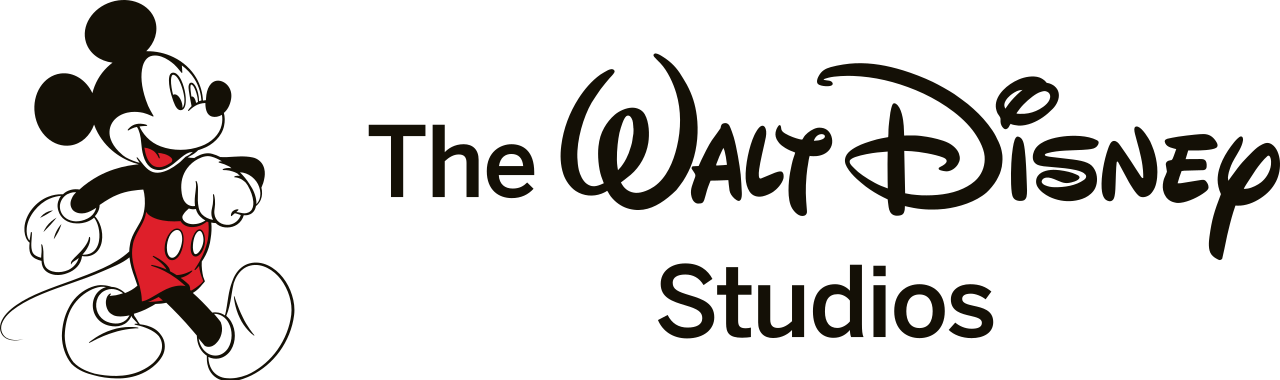
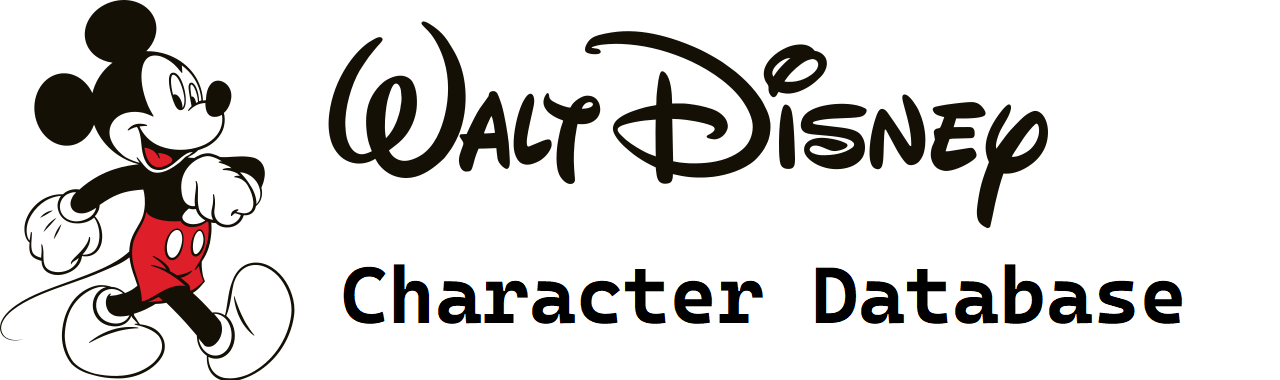
add pagination and delete all favorites

Changed region(s): [[0.25, 0.0579, 1.0, 0.6947], [0.25, 0.6947, 0.9375, 0.8974]]

diff --git a/src/js/main.js b/src/js/main.js
@@ -4,6 +4,12 @@ const favsList = document.querySelector('.js_favsList');
 const searchBtn = document.querySelector('.js_sbtn');
 const favBtn = document.querySelector('.js_fbtn');
 const deleteFav = document.querySelector('.js_delete');
+const favSection = document.querySelector('.favorites');
+const backBtn = document.querySelector('.js_back');
+const pagesInfo = document.querySelector('.js_pages');
+const forward = document.querySelector('.js_forward');
+
+
 
 //verifico si existe o no una lista en el localStorage si no existe lo inicializa con un array vacío.
 let favoritesCharacters =
@@ -12,6 +18,8 @@ let favoritesCharacters =
     : [];
 let dataCharacter;
 let dataInfo;
+let url = `https://api.disneyapi.dev/character`;
+let pages = 1;
 
 function renderListCharacter(dataList) {
   ulList.innerHTML = '';
@@ -29,7 +37,7 @@ function renderCharacter(character) {
   liElement.classList.add('card', 'list');
   imgElement.classList.add('card__img');
   imgElement.src =
-    character.imageUrl === ''
+    character.imageUrl === undefined || character.imageUrl === ''
       ? 'https://via.placeholder.com/210x295/ffffff/555555/?text=Disney'
       : character.imageUrl;
   imgElement.alt = character.name;
@@ -61,11 +69,12 @@ function getListCharacter() {
     renderFavourites(favoritesCharacters);
   }
 
-  fetch('https://api.disneyapi.dev/character')
+  fetch(url)
     .then((response) => response.json())
     .then((data) => {
       dataCharacter = data.data;
       dataInfo = data.info;
+      pagesInfo.innerText = `${pages} de ${dataInfo.totalPages}`;
       renderListCharacter(dataCharacter);
     });
 }
@@ -122,14 +131,44 @@ function searchCharacter(ev) {
     });
 }
 function deleteFavorite(ev, chara) {
-  const favForDelete = favoritesCharacters.findIndex((el) => el._id === chara._id);
-  favoritesCharacters.splice(favForDelete,1);
+  const favForDelete = favoritesCharacters.findIndex(
+    (el) => el._id === chara._id
+  );
+  favoritesCharacters.splice(favForDelete, 1);
   localStorage.setItem('favCharacter', JSON.stringify(favoritesCharacters));
   renderFavourites(favoritesCharacters);
   renderListCharacter(dataCharacter);
-
 }
+function deleteListFavorites() {
+  //accedo a los elementos de favoritos y desde la posición 0 borro todos los indices.
+  favoritesCharacters.splice(0, favoritesCharacters.length);
+  localStorage.setItem('favCharacter', JSON.stringify(favoritesCharacters));
+  renderFavourites(favoritesCharacters);
+  renderListCharacter(dataCharacter);
+}
+function favSectionClick() {
+  favSection.classList.toggle('no-display');
+}
+
+function requestNewPage (ev) {
+  const btn = ev.target.id;
+  url = dataInfo[btn];
+  if(btn ==='previousPage'&& pages!== 1){
+    getListCharacter();
+    pages--;
+    pagesInfo.innerText = `${pages} de ${dataInfo.totalPages}`;
+  } else if(btn==='nextPage') {
+    pages++;
+    pagesInfo.innerText = `${pages} de ${dataInfo.totalPages}`;
+    getListCharacter();
+  }
+}
+
 
 getListCharacter();
 
 searchBtn.addEventListener('click', searchCharacter);
+deleteFav.addEventListener('click', deleteListFavorites);
+favBtn.addEventListener('click', favSectionClick);
+backBtn.addEventListener('click', requestNewPage)
+forward.addEventListener('click', requestNewPage)

diff --git a/src/scss/layout/_main.scss b/src/scss/layout/_main.scss
@@ -9,7 +9,7 @@
   display: flex;
   justify-content: space-evenly;
   align-items: flex-start;
-  overflow: scroll;
+  overflow-x: scroll;
   margin-bottom: 30px;
   margin-top: 30px;
 }
@@ -40,7 +40,6 @@
   margin-top: 20px;
   border-radius: 30px;
   position: relative;
-  background-color: #233465;
   // border:3px solid #e00664;
   display: flex;
   flex-direction: column;
@@ -48,12 +47,12 @@
   box-shadow: -8px 6px 20px -3px #9c657d;
   &__fav {
     font-size: 40px;
-    color: #e7287b;
+    color: #e00664;
     position: absolute;
     left: auto;
     top: 20px;
     right: 20px;
-    background-color: wheat;
+    background-color: #edc9d9;;
     border-radius: 50px;
     width: 50px;
     height: 50px;
@@ -76,20 +75,20 @@
     height: 60px;
     border-radius: 15px;
     margin-bottom: 15px;
-
     display: flex;
     flex-direction: column;
     justify-content: center;
-    background-color: #1eacf9;
+    background-color: #edc9d9;
   }
 
   &__title {
     font-size: 18px;
     text-align: center;
-    color: #101624;
+    color: #1b1919;
     font-family: $font-main;
   }
 }
 
-.follow {
+.no-display {
+  display:none
 }

diff --git a/src/html/partials/main.html b/src/html/partials/main.html
@@ -1,10 +1,15 @@
 <main class="main">
     <section class="favorites">
+      <input class="favorites__delete js_delete"type="button" value="Borrar Todos">
       <ul class="main__fav js_favsList">
       
         </ul>
     </section>
-  <div class="separator"></div>
+  <section class="pagination">
+    <input class="back js_back" id="previousPage" type="button" value="Atrás">
+    <p class="pages js_pages"></p>
+    <input class="forward js_forward" id="nextPage" type="button" value="Siguiente">
+  </section>
 
   <section class="characters">
     <ul class="main__list js_ulList">

diff --git a/src/scss/layout/_header.scss b/src/scss/layout/_header.scss
@@ -1,21 +1,19 @@
-.header{
-  width: 100%;
+.header {
+  background-color: white;
 }
-.logo {
+.header-menu {
   display: flex;
-  justify-content: center;
-  &-header {
-    width: 30%;
-    margin-left: 50px;
-    margin-right: 50px;
+  flex-direction: column;
+  align-items: center;
+  &__logo {
+    width: 200px;
   }
 }
 
-.header-menu {
-  display: flex;
-  flex-direction: row;
-  justify-content: space-around;
-  align-items: center;
-  margin: 40px 20px;
-}
 
+
+
+.search__fav {
+  width: 100px;
+  height: 50pxpx;
+}

diff --git a/src/html/partials/header.html b/src/html/partials/header.html
@@ -1,7 +1,6 @@
 <header class="header">
-  <div class="logo"><img class="logo-header"src="./assets/images/MickyHeader.png" alt="disneyLogo"></div>
-  <nav class="header-menu">
-    <h1>@@title</h1>
+   <nav class="header-menu">
+    <img class="header-menu__logo"src="./assets/images/MickyHeader.png" alt="disneyLogo">
     <div>
       <input class="search js_search"type="text" name="search" id="search-input">
       <input class="search__button js_sbtn" type="button" value="Buscar">
